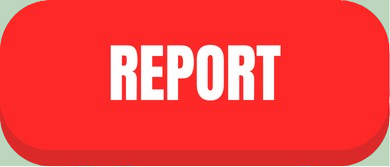
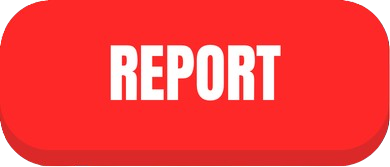
Recropped reportbutton.png and backarrow.png so that the background was transparent and there were no errors with the cropping Adjusted position of the report button Added and adjusted position of the back arrow Neither of the buttons have functionality as of yet Added a label to display the current

diff --git a/main.py b/main.py
@@ -157,8 +157,13 @@ class Selector:
         self.window_height = parent.winfo_screenheight()
         background_color = "#364156"
         button_color = "#01122e"
+        block = ''
+        stall = ''
         global a_or_e
-
+        if a_or_e:
+            block = 'A'
+        else:
+            block = 'E'
         # frame set up
         self.pframe = Frame(parent, bg=background_color)
         self.pframe.pack(fill=BOTH, expand=TRUE)
@@ -169,23 +174,38 @@ class Selector:
                                                    Image.LANCZOS)  # resizes the image to match the parent aspect ratio
         self.bg_image3_tk = ImageTk.PhotoImage(self.bg_image3)
 
-        # label for image
+        # label for background image
         self.image_label = Label(self.pframe, image=self.bg_image3_tk)
         self.image_label.place(x=0, y=0, relwidth=1, relheight=1)  # make label l to fit the parent window always
         self.image_label.image = self.bg_image3_tk
 
-        # label for the main selection image
+        # label for the main selection image in the centre of the screen
         self.selection = Label(self.pframe, bg = "black")
         self.selection.place(relx=0.5, rely=0.4275, relwidth = 0.915, relheight =0.635, anchor="center")
 
-        # setting a image (using my canva design without any widgets)
-        self.report_image = Image.open("reportbutton.png")  # using my canva design
-        self.report_image_tk = ImageTk.PhotoImage(self.report_image)
+        # setting an image for my report button
+        self.report_button = Image.open("reportbutton.png")  # using my canva design
+        self.report_button_tk = ImageTk.PhotoImage(self.report_button)
 
-        # The button which allows the user to continue from the homepage into the quiz
-        self.report_button = Button(self.pframe, image=self.report_image_tk, bg=button_color, activebackground=button_color,
+        # Report button
+        self.report_button = Button(self.pframe, image=self.report_button_tk, bg="#293142", activebackground="#293142",
                                     borderwidth=0, cursor="hand2")
-        self.report_button.place(relx=0.5, rely=0.5, anchor="center")
+        self.report_button.place(relx=0.8, rely=0.89 , anchor="center")
+        self.report_button.image = self.report_button_tk
+
+        # setting an image for the back button
+        self.back_button_img = Image.open("backarrow.png")  # using my canva design
+        self.back_button_img_tk = ImageTk.PhotoImage(self.back_button_img)
+
+        # Back button
+        self.back_button = Button(self.pframe, image=self.back_button_img_tk, bg="#293142", activebackground="#293142",
+                                    borderwidth=0, cursor="hand2")
+        self.back_button.place(relx=0.07, rely=0.89 , anchor="center")
+        self.back_button.image = self.back_button_img_tk
+
+        #Label to display the currently selected toilet stall
+        self.current_selection = Label(self.pframe, bg="#394053", fg="white", font=("Inter", "27"), text=f"Currently Selected: {block} stall {stall}")
+        self.current_selection.place(relx=0.38, rely=0.89, relwidth=0.45, relheight=0.12, anchor="center")  # make label l to fit the parent window always
 
         # for a
         if a_or_e == 1: